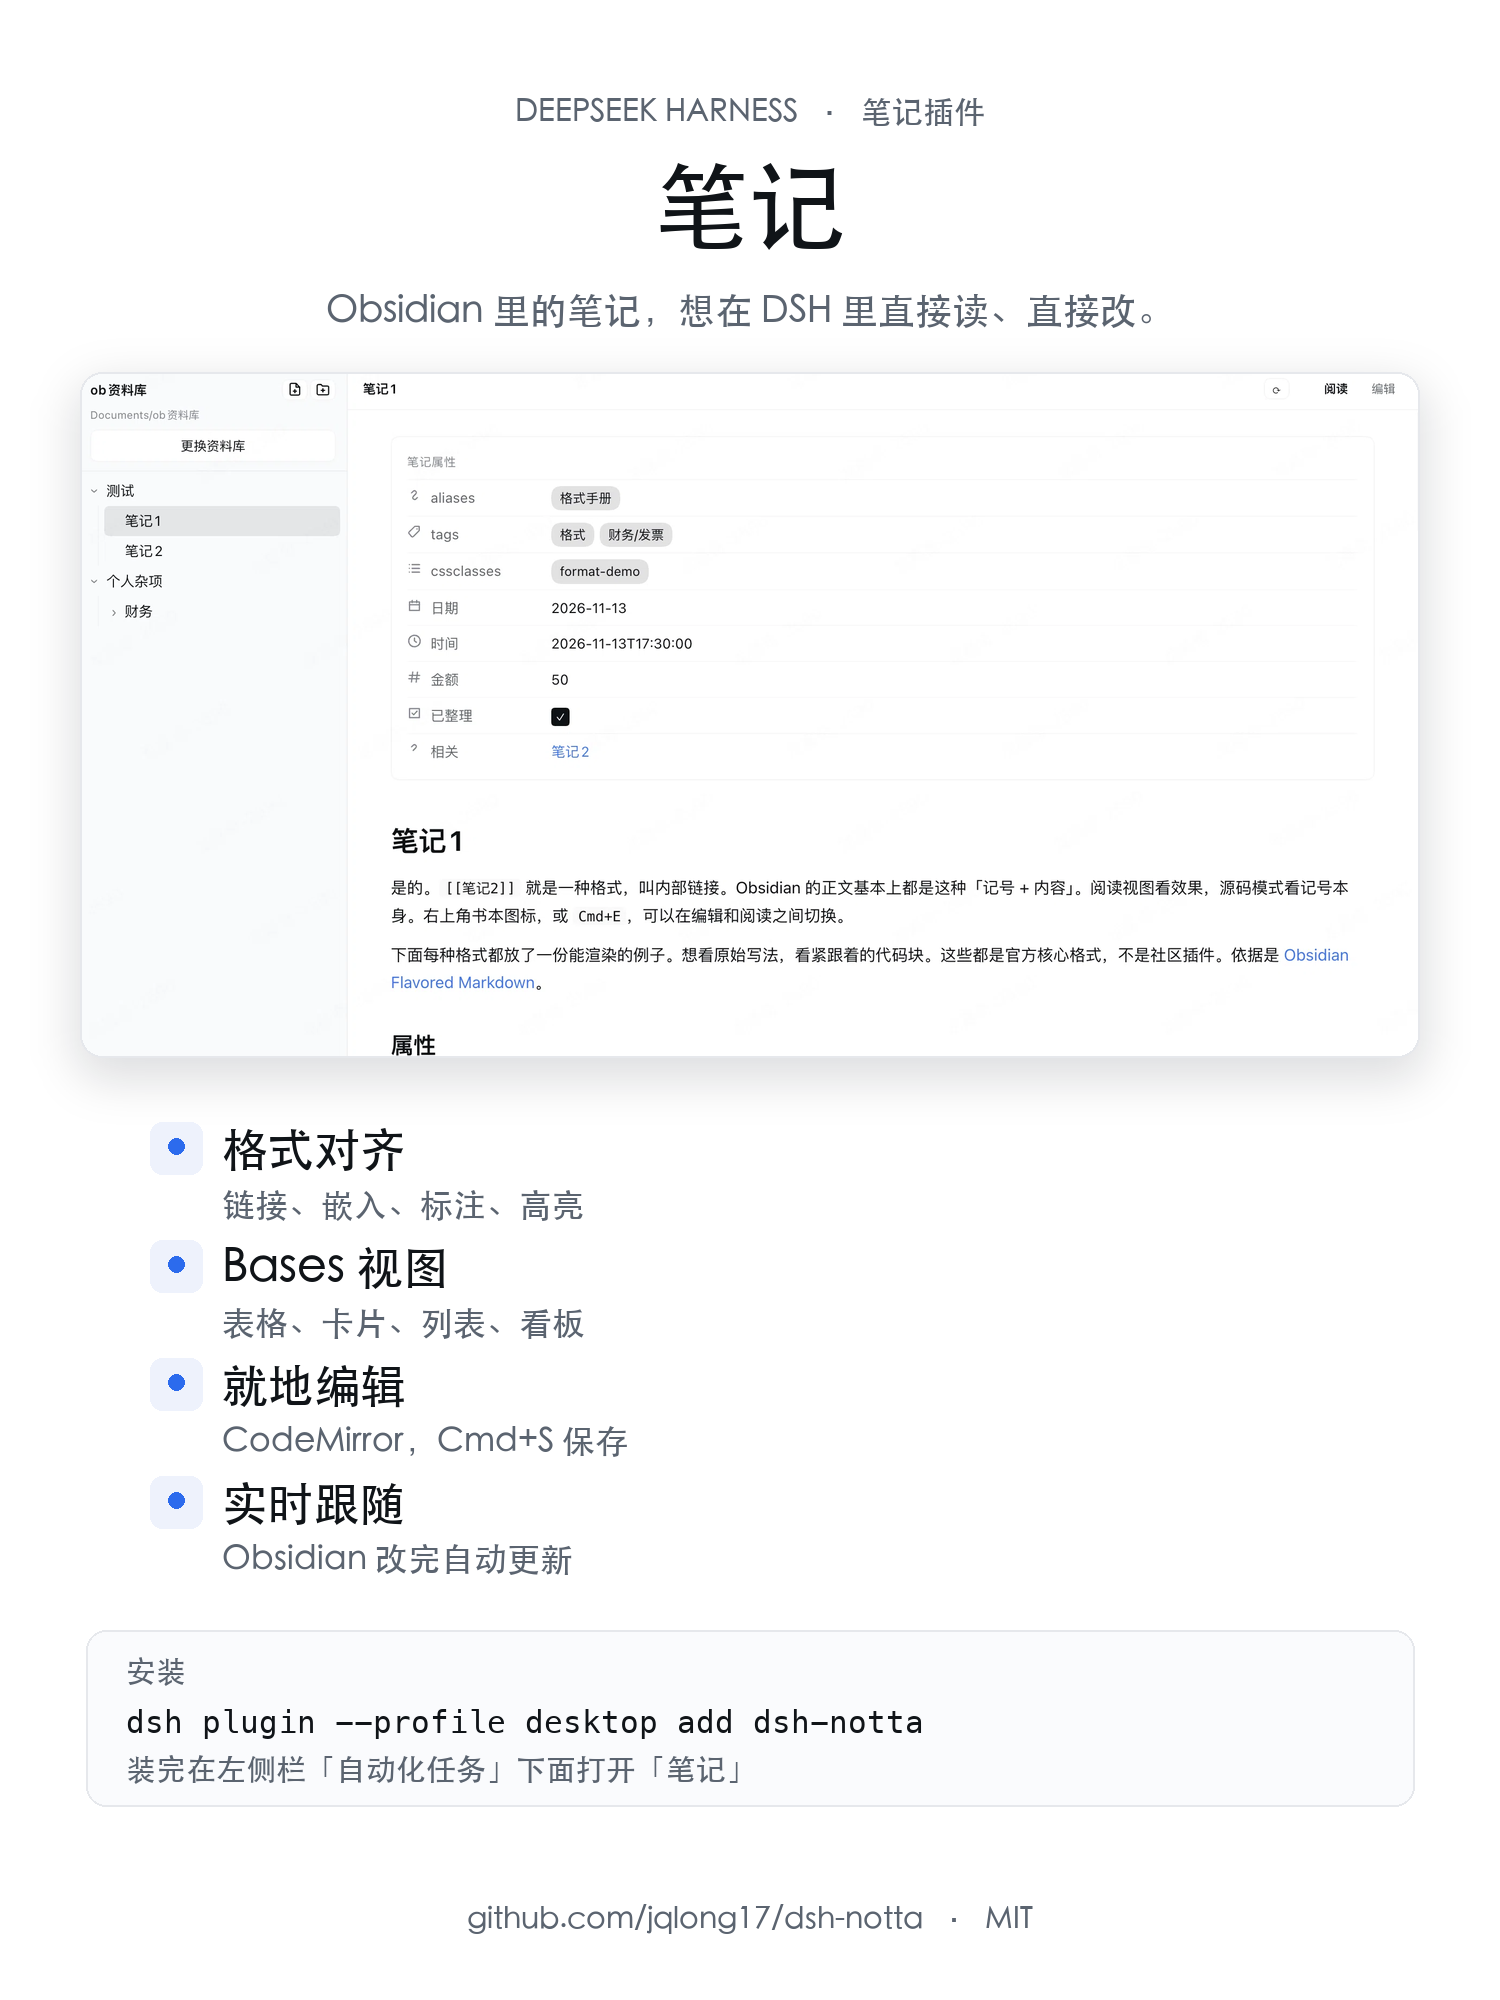
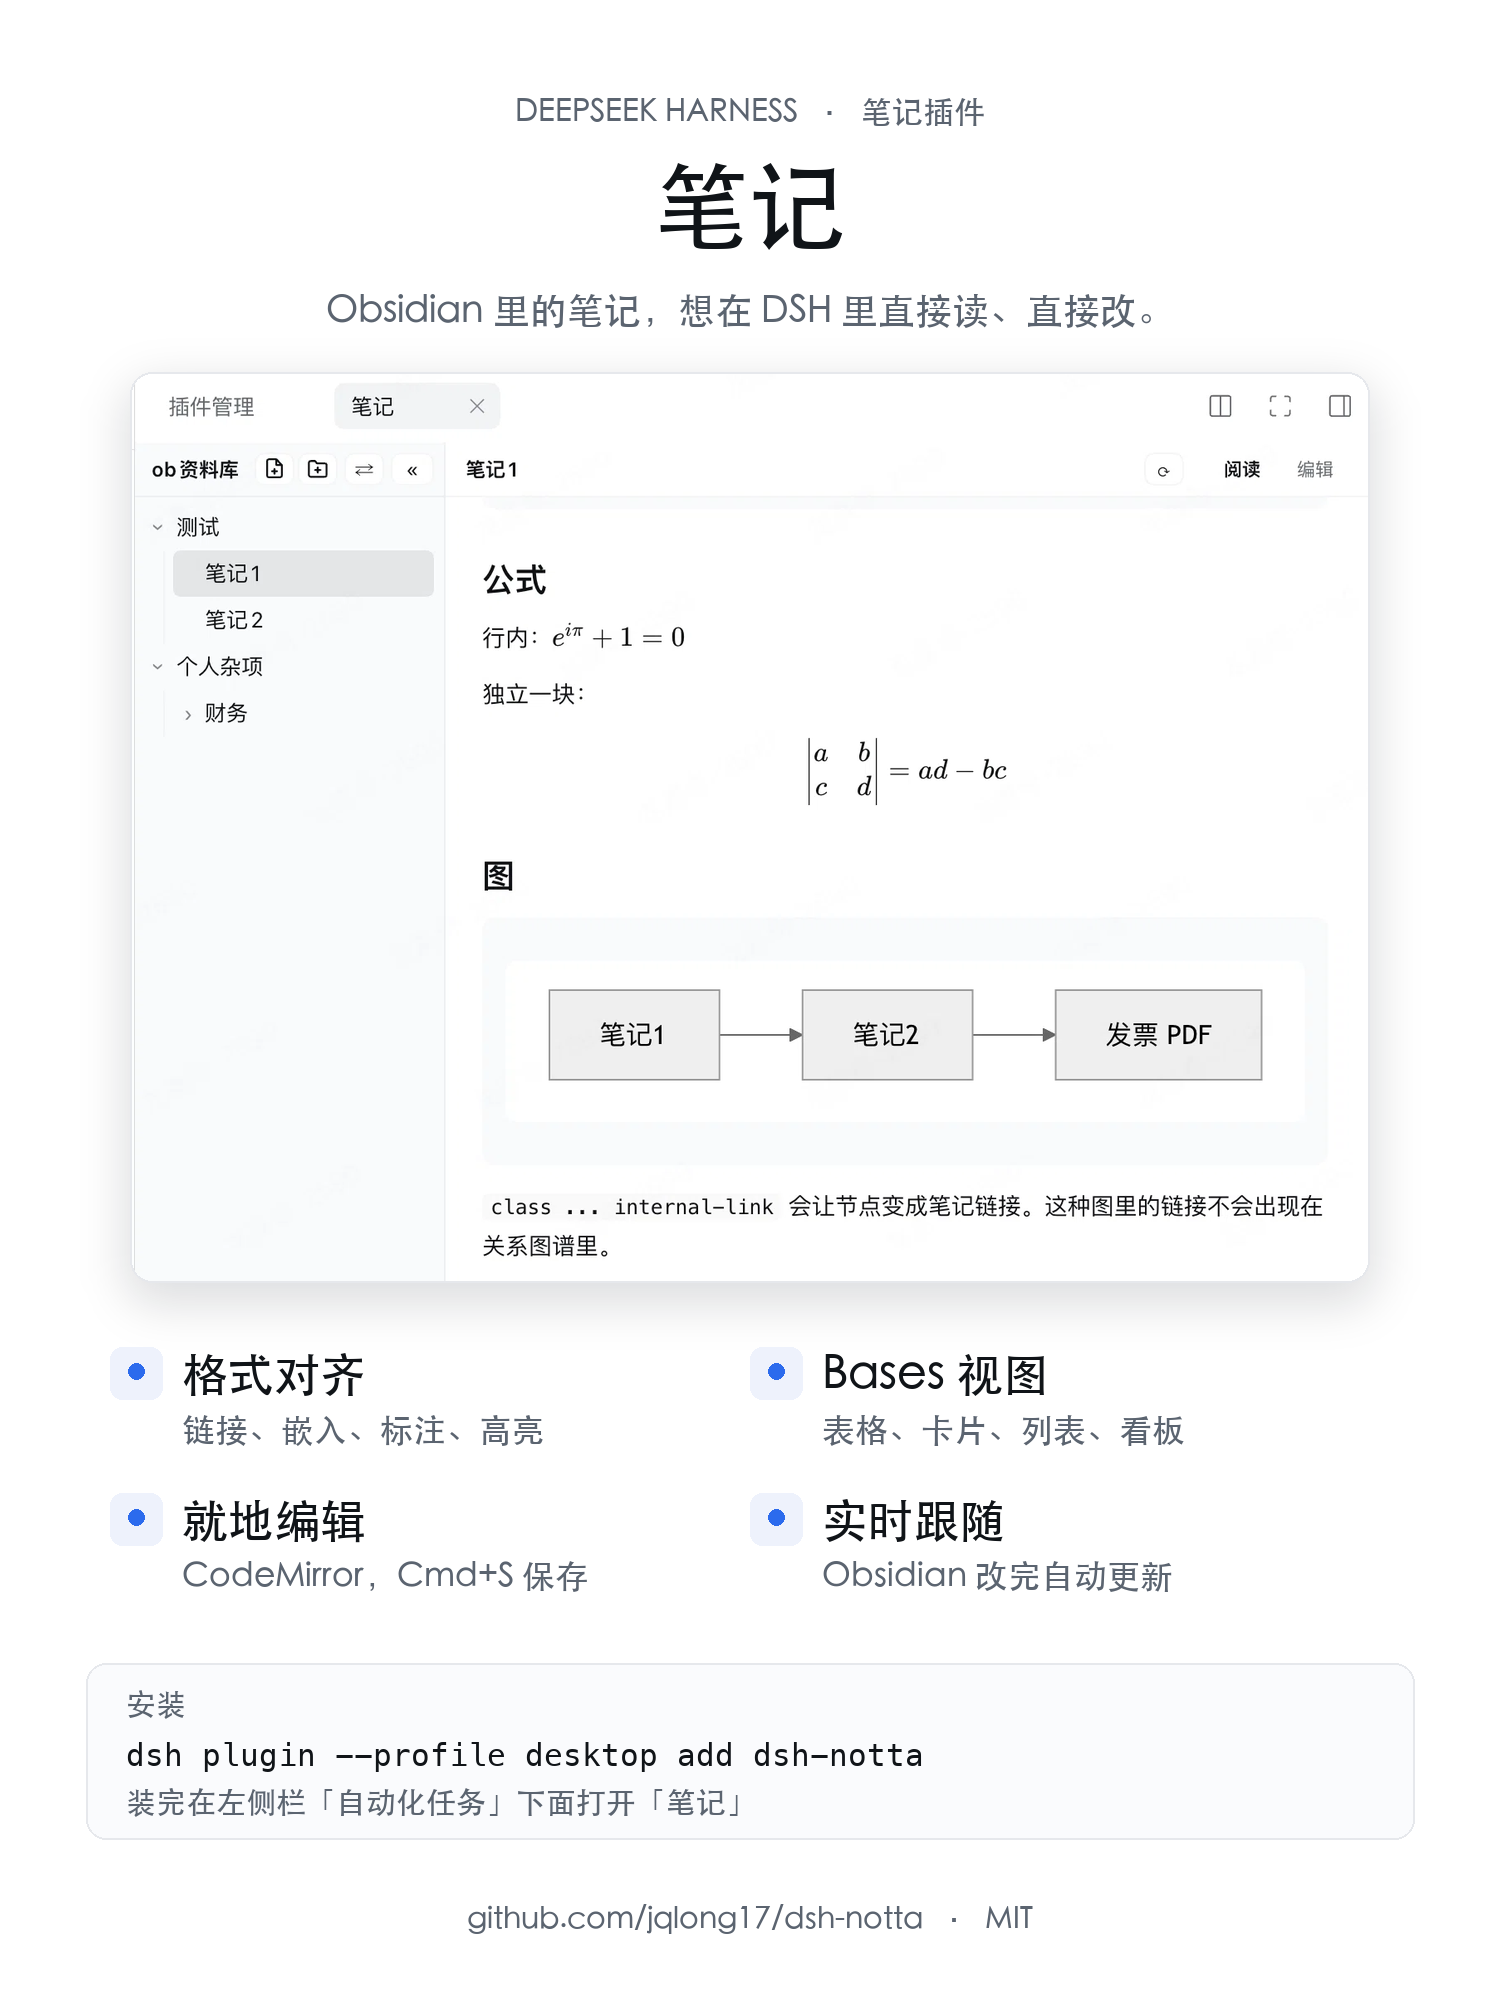
docs: refresh promo card with formulas and diagram, add cover

diff --git a/scripts/make-promo.py b/scripts/make-promo.py
@@ -33,14 +33,10 @@ center('Obsidian 里的笔记，想在 DSH 里直接读、直接改。', font(37
 
 # Screenshot: scale to 900 wide, rounded corners, soft shadow.
 shot = Image.open(shot_path).convert('RGB')
-# Crop to a wide band so the card keeps room for the selling points below.
-TARGET_ASPECT = 1.95
+# Keep the top band (title, formulas, diagram, caption) and drop the rest.
 sw, sh = shot.size
-if sw / sh < TARGET_ASPECT:
-    shot = shot.crop((0, 0, sw, int(sw / TARGET_ASPECT)))
-elif sw / sh > TARGET_ASPECT:
-    shot = shot.crop((0, 0, int(sh * TARGET_ASPECT), sh))
-tw = 1340
+shot = shot.crop((0, 0, sw, int(sh * 0.67)))
+tw = 1240
 th = int(shot.height * tw / shot.width)
 shot = shot.resize((tw, th), Image.LANCZOS)
 mask = Image.new('L', (tw, th), 0)
@@ -64,11 +60,11 @@ points = [
     ('实时跟随', 'Obsidian 改完自动更新'),
 ]
 grid_top = y0 + th + 70
-col_x = [150, 150]
-row_h = 118
+col_x = [110, 750]
+row_h = 146
 for index, (title, note) in enumerate(points):
     px = col_x[index % 2]
-    py = grid_top + index * row_h
+    py = grid_top + (index // 2) * row_h
     d.rounded_rectangle([px, py - 6, px + 52, py + 46], radius=12,
                         fill=(238, 242, 252))
     d.ellipse([px + 18, py + 10, px + 34, py + 26], fill=ACCENT)
@@ -76,7 +72,7 @@ for index, (title, note) in enumerate(points):
     d.text((px + 72, py + 60), note, font=font(33), fill=MUTED)
 
 # Install card.
-card_top = grid_top + 4 * row_h + 30
+card_top = grid_top + 2 * row_h + 18
 d.rounded_rectangle([86, card_top, W - 86, card_top + 176], radius=20,
                     outline=LINE, width=2, fill=(250, 251, 253))
 d.text((126, card_top + 26), '安装', font=font(30), fill=MUTED)
